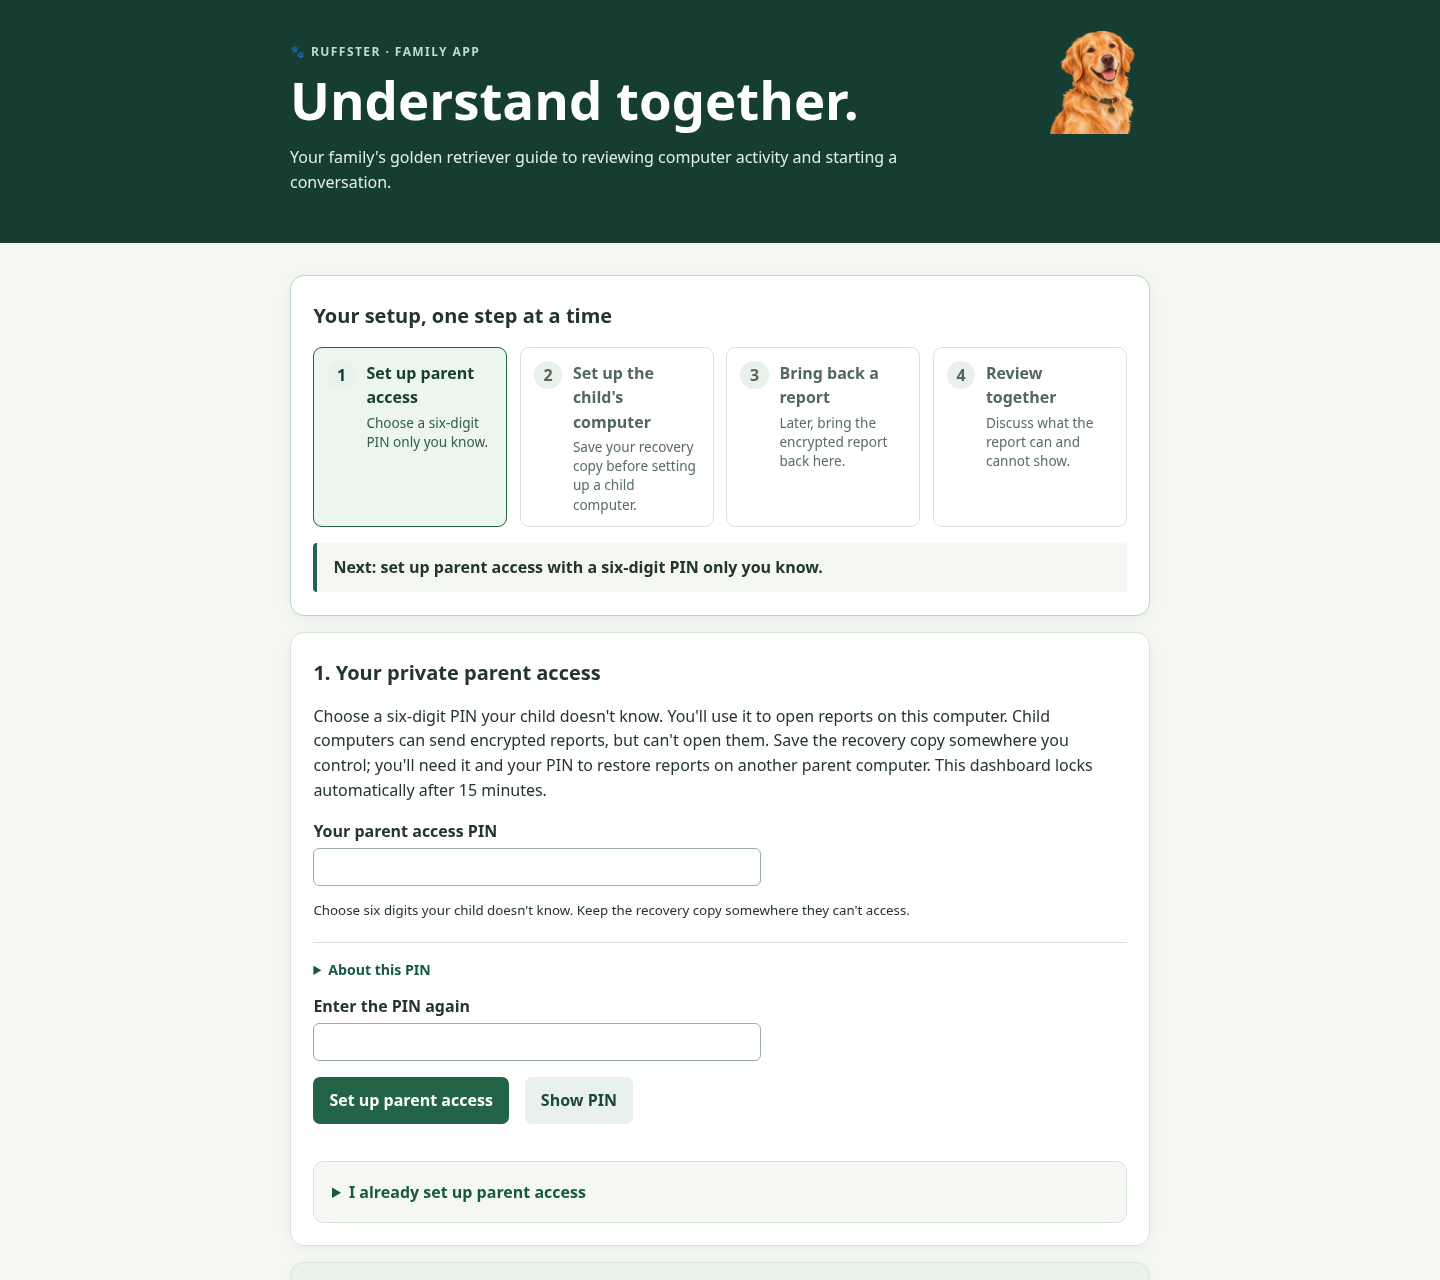
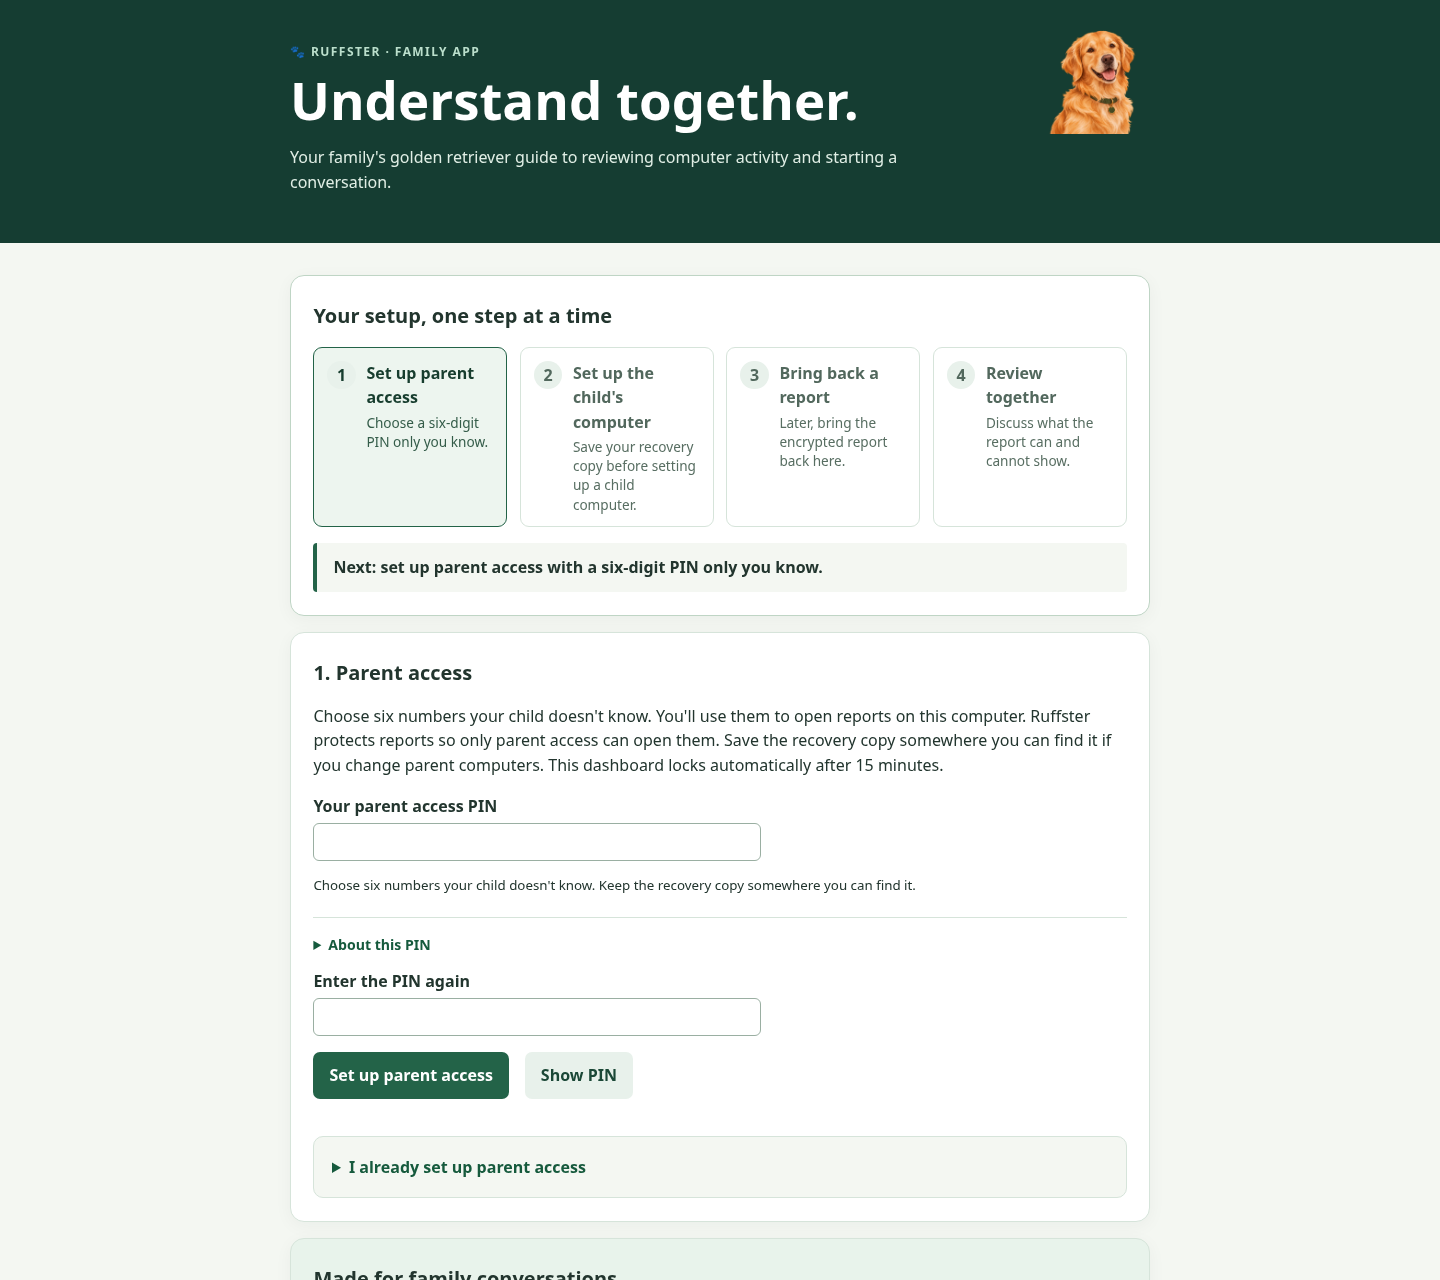
Make parent access easier to understand

Changed region(s): [[0.2188, 0.5, 0.75, 0.6562], [0.2188, 0.6875, 0.625, 0.9375], [0.2188, 0.9688, 0.25, 1.0]]

diff --git a/family_activity/parent_assets/index.html b/family_activity/parent_assets/index.html
@@ -3,8 +3,8 @@
 <body><header><div class="wrap"><img class="mascot" src="/ruffster-mascot.webp" alt="" width="104" height="104"><span class="eyebrow">🐾 RUFFSTER · FAMILY APP</span><h1>Understand together.</h1><p>Your family's golden retriever guide to reviewing computer activity and starting a conversation.</p></div></header>
 <main class="wrap"><p id="message" role="status" aria-live="polite"></p>
 <section class="card journey" aria-labelledby="journey-title"><h2 id="journey-title">Your setup, one step at a time</h2><ol id="setup-progress" class="steps"><li><span class="step-number">1</span><span><strong id="step-one-title">Set up parent access</strong><small id="step-one-state">Choose a six-digit PIN only you know.</small></span></li><li><span class="step-number">2</span><span><strong>Set up the child's computer</strong><small id="step-two-state">Enter the two digits shown here on the child's computer.</small></span></li><li><span class="step-number">3</span><span><strong>Bring back a report</strong><small id="step-three-state">Then review the observations together.</small></span></li><li><span class="step-number">4</span><span><strong>Review together</strong><small>Discuss what the report can and cannot show.</small></span></li></ol><p id="next-step" class="next-step" aria-live="polite">Start by setting up parent access below.</p></section>
-<section class="card"><h2>1. Your private parent access</h2><p>Choose a six-digit PIN your child doesn't know. You'll use it to open reports on this computer. Child computers can send encrypted reports, but can't open them. Save the recovery copy somewhere you control; you'll need it and your PIN to restore reports on another parent computer. This dashboard locks automatically after 15 minutes.</p>
-<form id="key-form"><label id="access-label" for="password">Your parent access PIN</label><input id="password" type="password" inputmode="numeric" autocomplete="new-password" pattern="[0-9]{6}" title="Enter six digits." aria-describedby="phrase-help" required><small id="phrase-help">Choose six digits your child doesn't know. Keep the recovery copy somewhere you control.</small><details class="fine"><summary>About this PIN</summary><p>The PIN keeps reports for the parent in your family. Keep the recovery copy and PIN together somewhere you can find them.</p></details><div id="confirm-wrap"><label id="confirm-label" for="confirm">Enter the PIN again</label><input id="confirm" type="password" inputmode="numeric" autocomplete="new-password" pattern="[0-9]{6}" title="Enter six digits."></div><div class="row"><button id="key-button" type="submit">Set up parent access</button><button id="toggle-passphrase" class="secondary" type="button" aria-pressed="false">Show PIN</button></div></form><p id="key-state" class="fine" role="status" hidden>Your private parent access is ready on this device. It locks automatically after 15 minutes.</p>
+<section class="card"><h2>1. Parent access</h2><p>Choose six numbers your child doesn't know. You'll use them to open reports on this computer. Ruffster protects reports so only parent access can open them. Save the recovery copy somewhere you can find it if you change parent computers. This dashboard locks automatically after 15 minutes.</p>
+<form id="key-form"><label id="access-label" for="password">Your parent access PIN</label><input id="password" type="password" inputmode="numeric" autocomplete="new-password" pattern="[0-9]{6}" title="Enter six digits." aria-describedby="phrase-help" required><small id="phrase-help">Choose six numbers your child doesn't know. Keep the recovery copy somewhere you can find it.</small><details class="fine"><summary>About this PIN</summary><p>The PIN keeps the parent dashboard for the adults in your family. Keep your PIN and recovery copy somewhere you can find them.</p></details><div id="confirm-wrap"><label id="confirm-label" for="confirm">Enter the PIN again</label><input id="confirm" type="password" inputmode="numeric" autocomplete="new-password" pattern="[0-9]{6}" title="Enter six digits."></div><div class="row"><button id="key-button" type="submit">Set up parent access</button><button id="toggle-passphrase" class="secondary" type="button" aria-pressed="false">Show PIN</button></div></form><p id="key-state" class="fine" role="status" hidden>Parent access is ready on this device. It locks automatically after 15 minutes.</p>
 <details id="change-pin" class="fine" hidden><summary>Change this computer’s parent PIN</summary><p>This keeps the same parent key, reports, and child computers. It changes the PIN saved on this computer only. Other parent computers and recovery copies keep their old PIN until you update them. Afterward, save a new recovery copy before setting up another child computer.</p><form id="change-pin-form"><label for="current-pin">Current PIN or older phrase</label><input id="current-pin" type="password" autocomplete="current-password" required><label for="new-pin">New six-digit PIN</label><input id="new-pin" type="password" inputmode="numeric" autocomplete="new-password" pattern="[0-9]{6}" title="Enter six digits." required><label for="confirm-new-pin">Repeat the new PIN</label><input id="confirm-new-pin" type="password" inputmode="numeric" autocomplete="new-password" pattern="[0-9]{6}" title="Enter six digits." required><button id="change-pin-button" type="submit">Change parent PIN</button></form><p id="change-pin-note" role="status" aria-live="polite"></p></details>
 <div id="backup-required" class="backup-required" hidden><h3>Save your recovery copy</h3><p>Save this encrypted file somewhere you control. It lets you restore your reports on another parent computer together with your PIN.</p><div class="row"><a id="download-backup-required" href="/api/backup" download="ruffster-parent-backup.vault">Save recovery copy</a></div><label class="backup-confirm-label"><input id="backup-confirm-check" type="checkbox"> I saved the recovery copy somewhere I control and can remember my PIN.</label><button id="confirm-backup" type="button" disabled>Continue</button><p id="backup-note" class="fine" role="status" aria-live="polite"></p></div>
 <div class="row"><a id="download-public" href="/api/public" download hidden>Download connection file</a><a id="download-backup" href="/api/backup" download hidden>Download recovery copy</a><button id="lock" class="secondary" hidden>Lock</button></div>

diff --git a/family_activity/parent_assets/app.js b/family_activity/parent_assets/app.js
@@ -48,7 +48,7 @@ async function refresh() {
     $('password').pattern = '[0-9]{6}'; $('password').title = 'Enter six digits.';
     $('confirm').pattern = '[0-9]{6}'; $('confirm').title = 'Enter six digits.';
     $('access-label').textContent = 'Your parent access PIN';
-    $('phrase-help').textContent = "Choose six digits your child doesn't know. Keep the recovery copy somewhere they can't access.";
+    $('phrase-help').textContent = "Choose six numbers your child doesn't know. Keep the recovery copy somewhere you can find it.";
     $('confirm-label').textContent = 'Enter the PIN again';
   }
   $('confirm-wrap').hidden = status.has_key;

diff --git a/tests/test_docs_site.py b/tests/test_docs_site.py
@@ -97,8 +97,8 @@ class DocumentationSiteTests(unittest.TestCase):
 
     def test_encryption_guide_explains_the_family_data_flow_and_limits(self):
         encryption = (ROOT / 'ENCRYPTION.md').read_text(encoding='utf-8')
-        self.assertIn('encrypts activity on the child\'s Mac before it is saved', encryption)
-        self.assertIn('The PIN is meant to be simple for a parent to remember and unknown to the child', encryption)
+        self.assertIn('encrypts activity on the child\'s Mac before saving it', encryption)
+        self.assertIn("The PIN is for simple family access: a parent can open the reports, and the child doesn't need to know the PIN", encryption)
         self.assertIn('The two-digit number helps the computers find each other on the same Wi-Fi', encryption)
         self.assertIn('The number and order of encrypted records', encryption)
         self.assertIn('Use reports as a helpful family picture, not as a forensic record', encryption)
@@ -163,7 +163,7 @@ class DocumentationSiteTests(unittest.TestCase):
         self.assertIn("'mac-family-*'", release)
         self.assertIn('--prerelease', release)
         self.assertIn('.github/MAC-FAMILY-RELEASE-NOTES.md', release)
-        self.assertIn('Ruffster for Mac 0.1.22', family_release_notes)
+        self.assertIn('Ruffster for Mac 0.1.23', family_release_notes)
         self.assertIn('Setup shows which account it will monitor', family_release_notes)
         self.assertIn('A real family setup and report exchange remain the next hands-on checks', family_release_notes)
         self.assertIn('scripts/run-tests.py', release)
@@ -385,7 +385,7 @@ class DocumentationSiteTests(unittest.TestCase):
         script = (ROOT / 'family_activity/parent_assets/app.js').read_text(encoding='utf-8')
         product = (ROOT / 'PRODUCT-DESIGN.md').read_text(encoding='utf-8')
         self.assertIn('Your parent access PIN', dashboard)
-        self.assertIn('six-digit PIN your child doesn\'t know', dashboard)
+        self.assertIn("Choose six numbers your child doesn't know", dashboard)
         self.assertIn('Repeat these steps for each child\'s Mac', dashboard)
         self.assertIn('Show two digits', dashboard)
         self.assertIn('Download connection file', dashboard)

diff --git a/tests/test_dashboard.py b/tests/test_dashboard.py
@@ -12,15 +12,16 @@ class DashboardTests(unittest.TestCase):
         root = Path(__file__).parents[1] / 'family_activity' / 'parent_assets'
         html = (root / 'index.html').read_text(encoding="utf-8")
         script = (root / 'app.js').read_text(encoding="utf-8")
-        self.assertIn("Child computers can send encrypted reports, but can't open them", html)
-        self.assertIn('The PIN keeps reports for the parent in your family', html)
-        self.assertIn("Choose six digits your child doesn't know. Keep the recovery copy somewhere you control.", html)
+        self.assertIn('Ruffster protects reports so only parent access can open them', html)
+        self.assertIn('<h2>1. Parent access</h2>', html)
+        self.assertIn('The PIN keeps the parent dashboard for the adults in your family. Keep your PIN and recovery copy somewhere you can find them.', html)
+        self.assertIn("Choose six numbers your child doesn't know. Keep the recovery copy somewhere you can find it.", html)
         self.assertNotIn('separate public part', html)
         self.assertIn('pattern="[0-9]{6}" title="Enter six digits."', html)
         self.assertIn("$('password').pattern = '[0-9]{6}'", script)
         self.assertIn("$('password').removeAttribute('pattern')", script)
         self.assertIn('longer phrase from an older setup', script)
-        self.assertIn("Choose six digits your child doesn't know. Keep the recovery copy somewhere they can't access.", script)
+        self.assertIn("Choose six numbers your child doesn't know. Keep the recovery copy somewhere you can find it.", script)
         self.assertNotIn('not strong protection if someone copies the recovery file', script)
 
     def test_report_handoff_waits_for_two_digits_and_sanitizes_input(self):

diff --git a/tests/test_macos_setup_source.py b/tests/test_macos_setup_source.py
@@ -20,7 +20,7 @@ class MacSetupSourceTests(unittest.TestCase):
         root = Path(__file__).parents[1]
         builder = (root / 'scripts' / 'build-macos-preview.sh').read_text(encoding='utf-8')
         workflow = (root / '.github' / 'workflows' / 'release-macos-unsigned-preview.yml').read_text(encoding='utf-8')
-        self.assertIn('VERSION=${RUFFSTER_VERSION:-0.1.22}', builder)
+        self.assertIn('VERSION=${RUFFSTER_VERSION:-0.1.23}', builder)
         self.assertIn("'CFBundleShortVersionString':sys.argv[2]", builder)
         self.assertIn("'CFBundleVersion':sys.argv[2]", builder)
         self.assertIn("'CFBundleIconFile':'Ruffster.icns'", builder)

diff --git a/.github/MAC-FAMILY-RELEASE-NOTES.md b/.github/MAC-FAMILY-RELEASE-NOTES.md
@@ -1,12 +1,12 @@
-## Ruffster for Mac 0.1.22
+## Ruffster for Mac 0.1.23
 
 Ruffster helps parents and children understand computer use together, including during the school day. This Mac family app keeps its monitoring status visible, encrypts activity reports for the parent, and includes a local dashboard. Setup shows which account it will monitor before monitoring begins.
 
 ### What changed
 
-- The two-digit setup prompts now explain how to ask for another pair if the first one stops working. The app avoids technical wording about expired or already-used codes.
-- The Mac setup waiting screen now gives a simple next step if the parent connection takes too long.
-- The parent dashboard explains that both computers should be on the same Wi-Fi and how to show another pair if setup takes too long.
+- Parent access now uses simpler family language: choose six numbers your child doesn't know, and keep the recovery copy somewhere you can find it.
+- The parent dashboard and website screenshots now describe the PIN as a simple way for parents to open reports.
+- The dashboard keeps its two-digit computer connection and report sharing steps.
 
 Ruffster still records the app in front and network measurements, keeps its menu-bar status visible, and stores activity encrypted for the parent. It does not record screenshots, keystrokes, messages, audio, or camera data. The Mac app remains unsigned by Apple; follow the install guide's app-specific first-open steps and keep macOS protections on.
 

diff --git a/README.md b/README.md
@@ -47,7 +47,7 @@ The school-hours view uses a schedule chosen by the parent; it does not prove th
 
 ## Privacy and encryption
 
-Ruffster encrypts each activity report for the parent. The parent keeps the private key and a six-digit PIN; the child's computer can send a report but cannot open it. You can change the PIN on an unlocked parent computer without disconnecting child computers or replacing reports. Then save and confirm a fresh recovery copy before setting up another child. Other parent computers and recovery copies keep their existing PIN until you update them. No cloud account is required.
+Ruffster encrypts reports so only parent access can open them. Choose six numbers your child doesn't know to open the parent dashboard on this computer. Save the recovery copy somewhere you can find it if you change parent computers. You can change the PIN on an unlocked parent computer without disconnecting child computers or replacing reports; save a fresh recovery copy before setting up another child. No cloud account is required.
 
 To connect computers, the sending computer shows two digits and the receiving computer enters them. This helps the devices find each other on the same Wi-Fi; the report itself stays encrypted. Some Wi-Fi networks keep devices separate. If that happens, save an encrypted report file on the child's computer and open it in the parent's dashboard. The dashboard can keep reports from several computers separate and lets the parent name each one.
 

diff --git a/ENCRYPTION.md b/ENCRYPTION.md
@@ -1,8 +1,8 @@
 # How family reports are encrypted
 
-Ruffster encrypts activity on the child's Mac before it is saved. The parent creates the matching private key on the parent computer; the child's Mac receives only the part needed to lock reports. The parent key and the six-digit PIN stay with the parent. Ruffster does not use a cloud service to read reports.
+Ruffster encrypts activity on the child's Mac before saving it. The parent sets up access on the parent computer; the child's Mac receives only what it needs to protect reports. Choose six numbers your child doesn't know, and keep the recovery copy somewhere you can find it. Ruffster does not use a cloud service to read reports.
 
-The PIN is meant to be simple for a parent to remember and unknown to the child. It is not a long password or a strong defense against someone who copies the parent's encrypted key file. Keep the PIN and recovery copy on the parent computer, and save the recovery copy somewhere you control.
+The PIN is for simple family access: a parent can open the reports, and the child doesn't need to know the PIN. It is not a long technical password. Keep the PIN and recovery copy somewhere you can find them.
 
 ## Setting up and sharing
 
